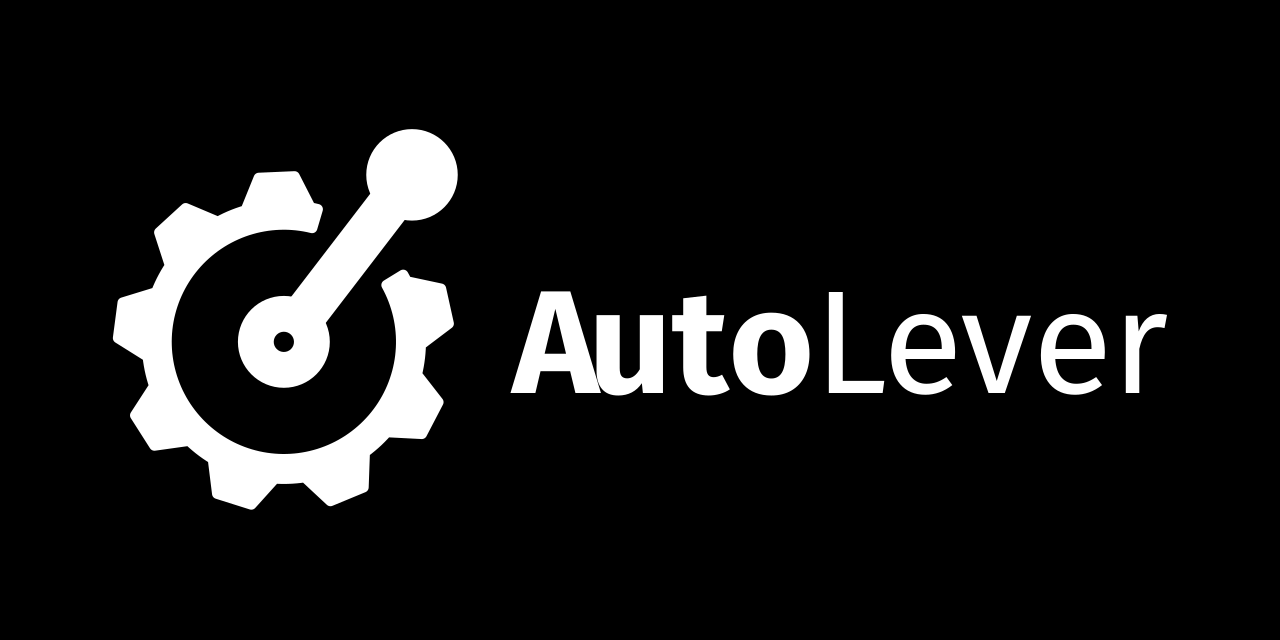
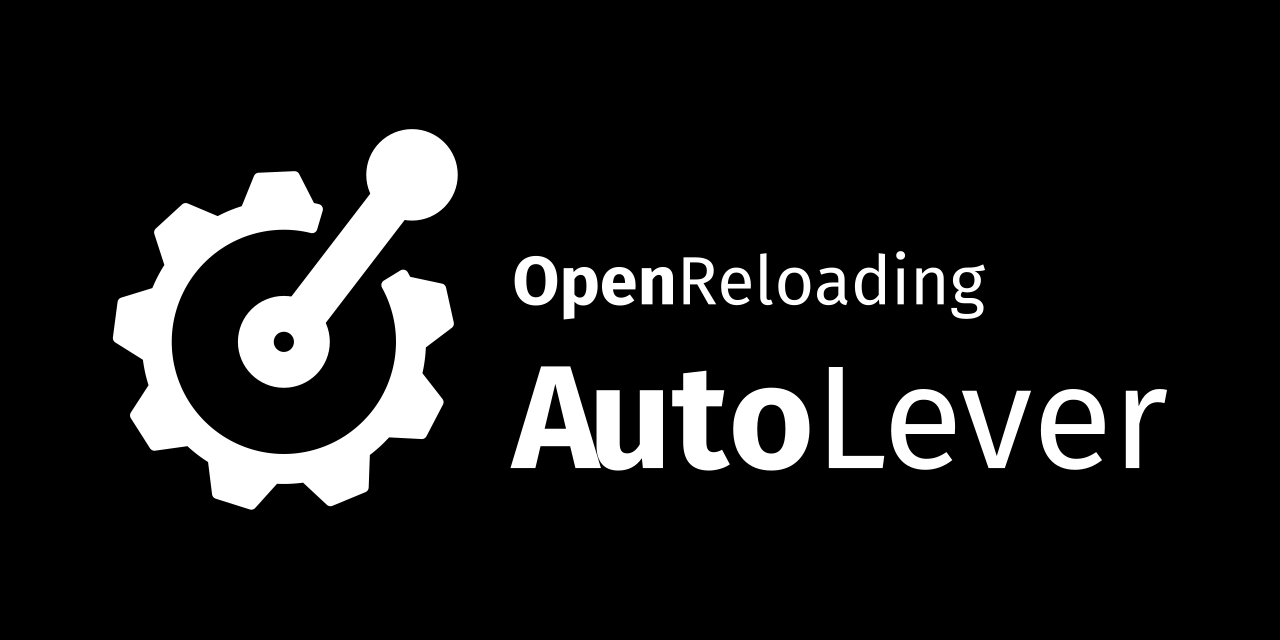
AutoLever wordmark gets the OpenReloading line like Ballistics
lockup() builds every project mark the same way: "OpenReloading" small
above the project name. WORDS holds only the big line.

Changed region(s): [[0.375, 0.375, 0.9062, 0.75]]

diff --git a/generate.py b/generate.py
@@ -91,19 +91,19 @@ def text_path(text, weight, size, x, y):
         pen = SVGPathPen(gs); gs[g].draw(TransformPen(pen, (sc, 0, 0, -sc, px, y))); d.append(pen.getCommands())
         px += hm[g][0] * sc
     return " ".join(d), px - x
-WORDS = {"openreloading": ("Open", "Reloading"), "autolever": ("Auto", "Lever"), "ballistics": ("Open", "Reloading")}
+WORDS = {"openreloading": ("Open", "Reloading"), "autolever": ("Auto", "Lever"), "ballistics": ("Ballistics", "")}
 def lockup(name, variant):
     col = "#fff" if variant == "dark" else "#000"
     H = 126; sc = H / E                                       # the icon square scaled so the cog is 100 tall
     g = f'<g transform="scale({sc:.4f}) translate({E/2-CX:.2f} {E/2-CY:.2f})">\n{mark(name, col)}\n</g>'
-    tx = H + 4; a, b = WORDS[name]
-    if name == "ballistics":
-        d1, w1 = text_path(a, "bold", 20, tx, 52); d2, w2 = text_path(b, "regular", 20, tx + w1, 52)
-        d3, w3 = text_path("Ballistics", "bold", 43, tx, 100); W = tx + max(w1 + w2, w3); label = "OpenReloading Ballistics"
-        paths = f'<path d="{d1}"/><path d="{d2}"/><path d="{d3}"/>'
-    else:
-        d1, w1 = text_path(a, "bold", 43, tx, 78); d2, w2 = text_path(b, "regular", 43, tx + w1, 78); W = tx + w1 + w2; label = a + b
-        paths = f'<path d="{d1}"/><path d="{d2}"/>'
+    tx = H + 4; lines = []                                    # (bold, regular, size, baseline)
+    if name != "openreloading": lines.append(("Open", "Reloading", 20, 52))   # project marks carry the org name small above
+    lines.append(WORDS[name] + (43, 100 if lines else 78))
+    paths, W = [], 0
+    for a, b, size, y in lines:
+        d1, w1 = text_path(a, "bold", size, tx, y); d2, w2 = text_path(b, "regular", size, tx + w1, y)
+        paths += [f'<path d="{d}"/>' for d in (d1, d2) if d]; W = max(W, tx + w1 + w2)
+    label = " ".join(a + b for a, b, *_ in lines); paths = "".join(paths)
     return (f'<svg xmlns="http://www.w3.org/2000/svg" viewBox="0 0 {W+6:.1f} {H}" fill="currentColor" color="{col}" role="img" aria-label="{label}">\n'
             f'{g}\n{paths}\n</svg>\n')
 

diff --git a/CLAUDE.md b/CLAUDE.md
@@ -10,7 +10,7 @@ Logos of the OpenReloading org and its projects. `generate.py` builds every file
 - OpenReloading: cog + `CASE_HEAD` (disc, primer ring, primer; the original hand-made path, scaled 0.95 for a hairline to the ring).
 - AutoLever: cog + lever through the gap at 37.5°: hub r 22.7 with r 5 pivot hole, bar 21.4 wide from r 18 to r 104, knob r 22.6. Sizes measured from the hand-made lever, length shortened so the knob stays inside the icon square.
 - Ballistics: cog + pressure-curve chart inside: baseline 30 below centre, curve and baseline reach 4 units into the ring on both sides, peak 38 above centre, 14 left of centre.
-- Wordmarks: lettering outlined at build time from Fira Sans (SIL OFL) with fontTools, first word bold, second regular, manual kerning for Au/Le/ev/Re; Ballistics gets "OpenReloading" small above "Ballistics" bold. Layout: the icon square scaled so the cog is 100 tall, text 43 (20 for the small line), 4 units gap after the square. Transparent, `color` set per variant.
+- Wordmarks: lettering outlined at build time from Fira Sans (SIL OFL) with fontTools, first word bold, second regular, manual kerning for Au/Le/ev/Re; project marks (AutoLever, Ballistics) get "OpenReloading" small above their name. Layout: the icon square scaled so the cog is 100 tall, text 43 (20 for the small line), 4 units gap after the square. Transparent, `color` set per variant.
 - PNGs: icon 880 px white mark on a 1024 black square (avatars); `-light-1280x640.png` (black on white) and `-dark-1280x640.png` (white on black) wordmarks, 1120 px wide content. README shows both; the dark one is the GitHub social preview.
 
 ## Adding a mark
